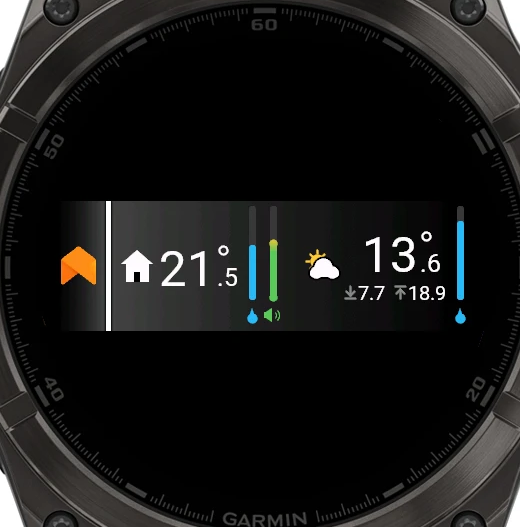
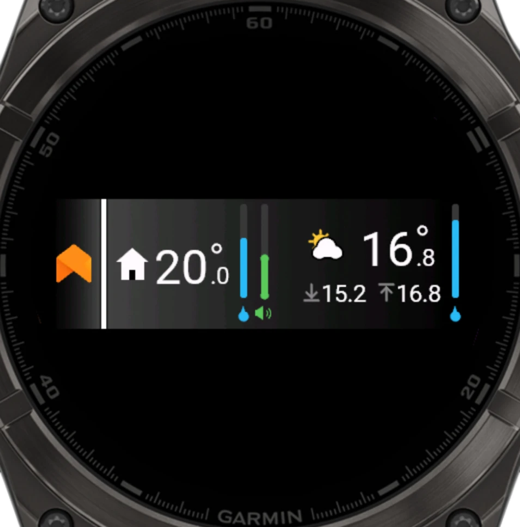
Glance : min/max plus grands sous le symbole ; écran redessiné après une notification
Copies d'écran à jour.

diff --git a/README.md b/README.md
@@ -59,8 +59,9 @@ Le projet contient deux briques :
 - **À gauche, la maison** : symbole maison, température intérieure, jauge d'humidité
   (goutte bleue dessous) et jauge du niveau sonore (haut-parleur dessous). La jauge du bruit
   suit l'échelle colorée vert → jaune → orange → rouge (30 à 80 dB) ; le haut-parleur reste vert.
-- **À droite, l'extérieur** : symbole soleil et nuage, température extérieure avec chevron de
-  tendance, minimum ↓ et maximum ↑ du jour dessous, jauge d'humidité (goutte bleue).
+- **À droite, l'extérieur** : symbole soleil et nuage et température extérieure avec chevron de
+  tendance sur une ligne, minimum ↓ et maximum ↑ du jour dessous (sur toute la largeur, sous le
+  symbole), jauge d'humidité (goutte bleue).
 
 Les valeurs passent en gris si la dernière mesure date de plus de 2 h.
 
@@ -256,7 +257,8 @@ une erreur 5xx ou réseau est réessayée une fois.
 - **Fluidité du glissement** : la montre doit avoir dessiné le nouvel écran avant de lancer
   l'animation. Chaque écran est donc dessiné une seule fois dans une image en mémoire graphique
   (`Graphics.createBufferedBitmap`), puis simplement recopié ; les écrans voisins sont préparés
-  juste après l'affichage. 3 images sont réutilisées (affiché + voisins) plutôt que libérées et
+  juste après l'affichage. Au retour après une notification, qui peut réutiliser cette mémoire,
+  l'écran est redessiné entièrement. 3 images sont réutilisées (affiché + voisins) plutôt que libérées et
   recréées, ce qui pouvait en effacer le contenu.
 
 ### Structure de l'app Connect IQ
